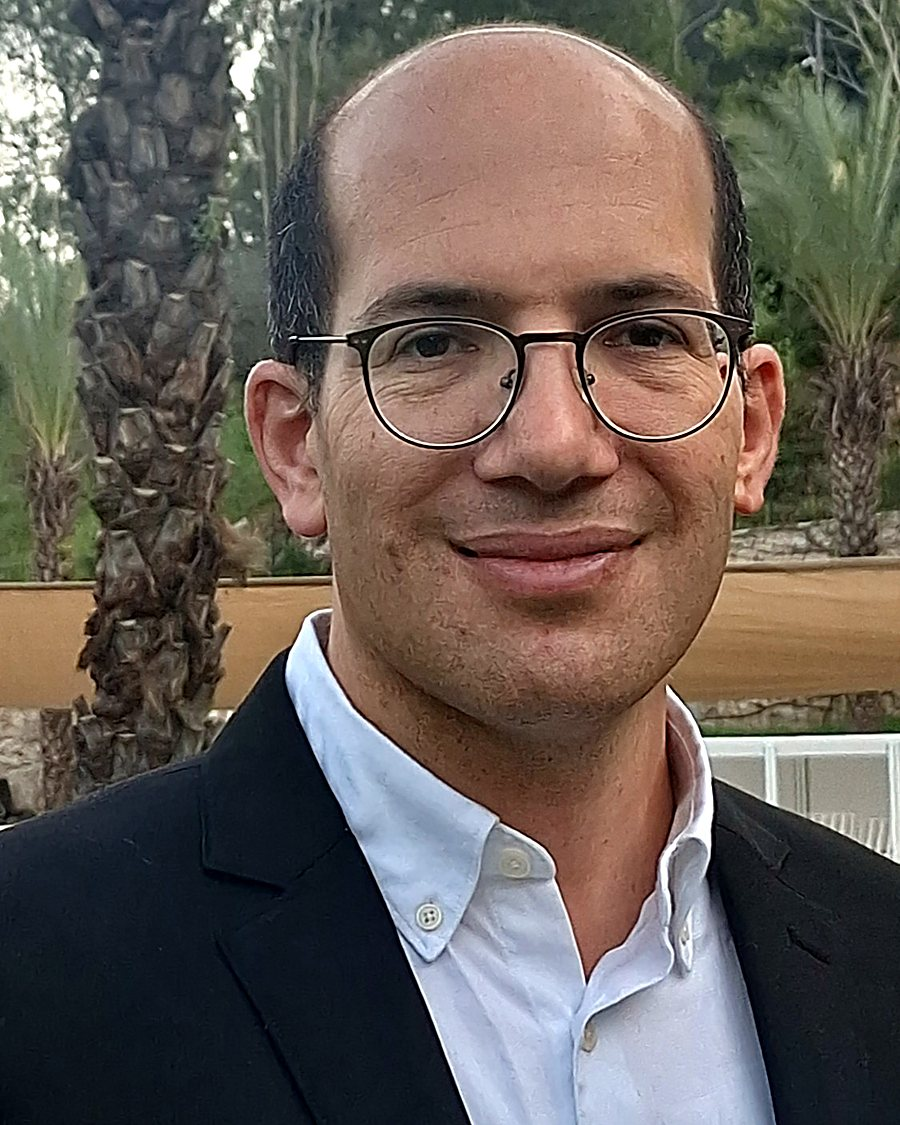
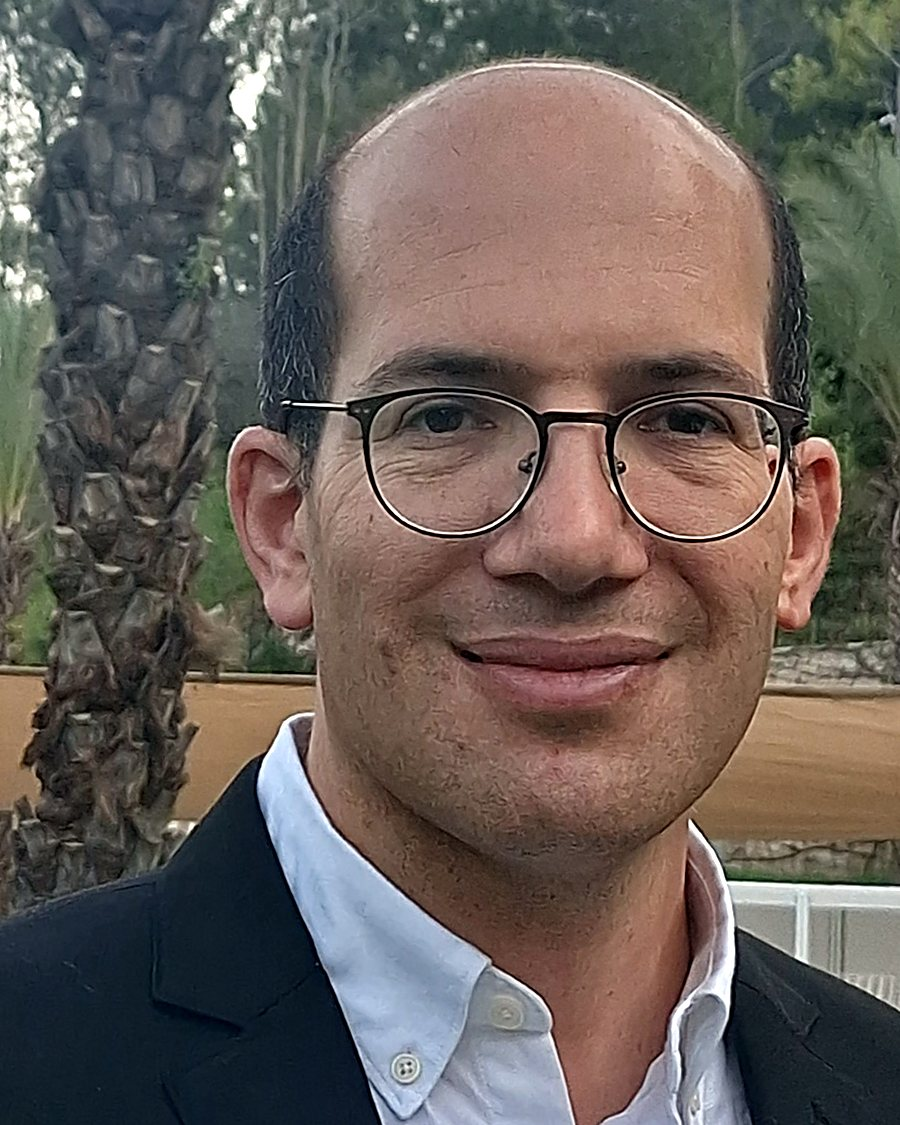
Straighten hero portrait; remove stats strip

diff --git a/he/index.html b/he/index.html
@@ -52,12 +52,10 @@
         </div>
       </div>
       <div class="hero-photo-frame">
-        <img src="../assets/images/profile.jpg" alt="תמונת פורטרט של ד&quot;ר אשר שפריר" onerror="this.parentElement.innerHTML='<div class=&quot;photo-placeholder&quot;>תמונת הפרופיל תופיע כאן</div>'">
+        <img src="../assets/images/profile.jpg?v=3" alt="תמונת פורטרט של ד&quot;ר אשר שפריר" onerror="this.parentElement.innerHTML='<div class=&quot;photo-placeholder&quot;>תמונת הפרופיל תופיע כאן</div>'">
       </div>
     </div>
   </header>
-
-  <section class="stats"><div class="container"><div class="stat reveal d0"><span class="stat-num" data-count="27">27</span><span class="stat-label">מחקרים שפורסמו</span></div><div class="stat reveal d1"><span class="stat-num" data-count="2">2</span><span class="stat-label">בתי עבודה קליניים: הדסה ומאוחדת</span></div><div class="stat reveal d2"><span class="stat-num" data-count="1">1</span><span class="stat-label">התמחות-על ב-IBD באוניברסיטת שיקגו</span></div></div></section>
 
   <div class="marquee" aria-hidden="true"><div class="marquee-track"><span>מחלות מעי דלקתיות</span><span>מחלות כבד</span><span>אנדוסקופיה</span><span>Helicobacter pylori</span><span>סיכון לסרטן המעי הגס</span><span>רפואה מבוססת-ראיות</span><span>מחלות מעי דלקתיות</span><span>מחלות כבד</span><span>אנדוסקופיה</span><span>Helicobacter pylori</span><span>סיכון לסרטן המעי הגס</span><span>רפואה מבוססת-ראיות</span><span>מחלות מעי דלקתיות</span><span>מחלות כבד</span><span>אנדוסקופיה</span><span>Helicobacter pylori</span><span>סיכון לסרטן המעי הגס</span><span>רפואה מבוססת-ראיות</span><span>מחלות מעי דלקתיות</span><span>מחלות כבד</span><span>אנדוסקופיה</span><span>Helicobacter pylori</span><span>סיכון לסרטן המעי הגס</span><span>רפואה מבוססת-ראיות</span></div></div>
 

diff --git a/en/index.html b/en/index.html
@@ -52,12 +52,10 @@
         </div>
       </div>
       <div class="hero-photo-frame">
-        <img src="../assets/images/profile.jpg" alt="Portrait of Dr. Asher Shafrir" onerror="this.parentElement.innerHTML='<div class=&quot;photo-placeholder&quot;>Portrait photo will appear here</div>'">
+        <img src="../assets/images/profile.jpg?v=3" alt="Portrait of Dr. Asher Shafrir" onerror="this.parentElement.innerHTML='<div class=&quot;photo-placeholder&quot;>Portrait photo will appear here</div>'">
       </div>
     </div>
   </header>
-
-  <section class="stats"><div class="container"><div class="stat reveal d0"><span class="stat-num" data-count="27">27</span><span class="stat-label">published studies</span></div><div class="stat reveal d1"><span class="stat-num" data-count="2">2</span><span class="stat-label">clinical homes: Hadassah &amp; Meuhedet</span></div><div class="stat reveal d2"><span class="stat-num" data-count="1">1</span><span class="stat-label">IBD fellowship at the University of Chicago</span></div></div></section>
 
   <div class="marquee" aria-hidden="true"><div class="marquee-track"><span>Inflammatory bowel disease</span><span>Liver disease</span><span>Endoscopy</span><span>H. pylori</span><span>Colorectal cancer risk</span><span>Evidence-based care</span><span>Inflammatory bowel disease</span><span>Liver disease</span><span>Endoscopy</span><span>H. pylori</span><span>Colorectal cancer risk</span><span>Evidence-based care</span><span>Inflammatory bowel disease</span><span>Liver disease</span><span>Endoscopy</span><span>H. pylori</span><span>Colorectal cancer risk</span><span>Evidence-based care</span><span>Inflammatory bowel disease</span><span>Liver disease</span><span>Endoscopy</span><span>H. pylori</span><span>Colorectal cancer risk</span><span>Evidence-based care</span></div></div>
 
